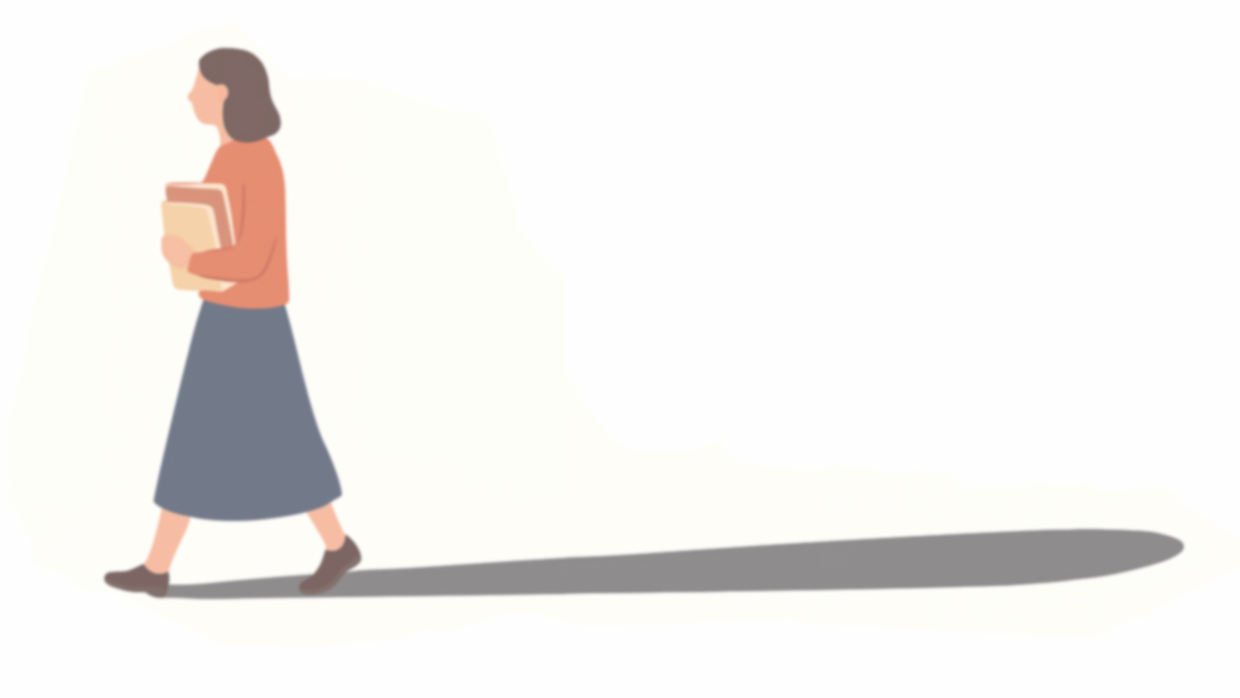
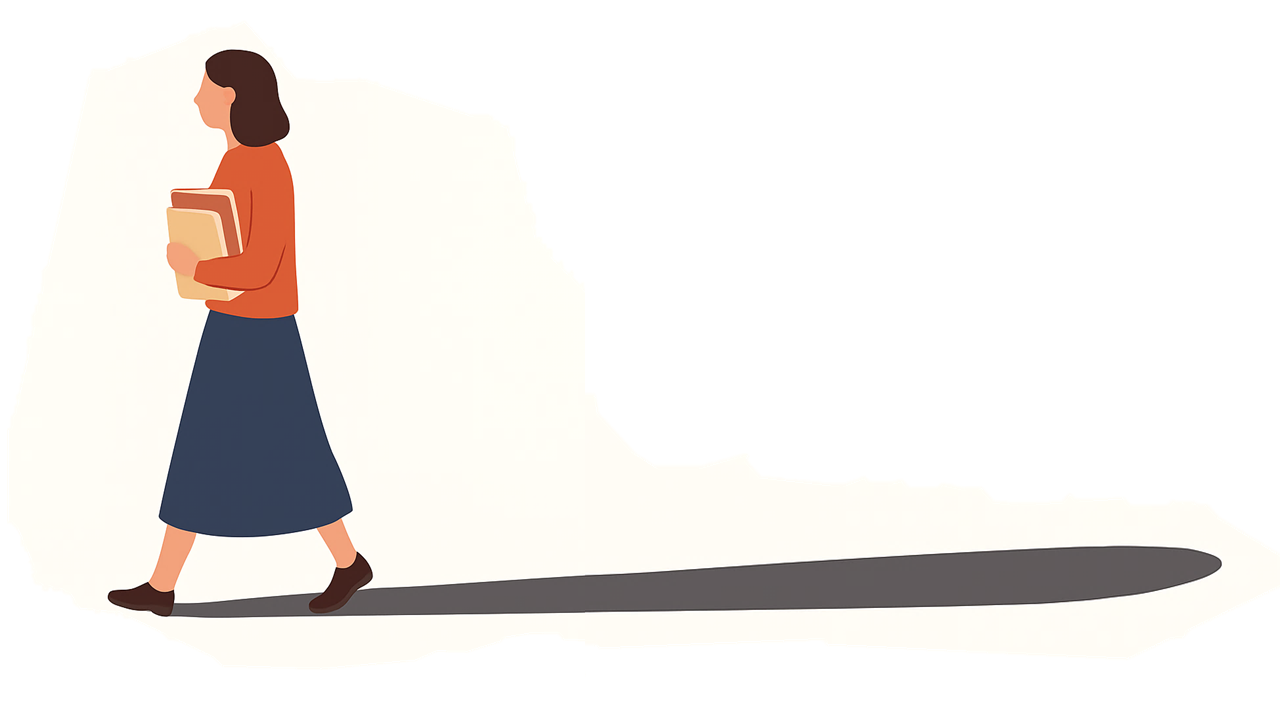
minor changes to blog1

Changed region(s): [[0.0613, 0.0602, 0.95, 0.8725]]

diff --git a/blogs/Feminist_Epi.html b/blogs/Feminist_Epi.html
@@ -50,7 +50,8 @@ The <b>Female Epistemology in STEM</b> project explores the ways in which women 
 <summary><b>Story: "Title of Story 1"</b></summary>
 
 <p>
-A brief description of the story written by my partner.  
+Written by: <b>Oviya G</b><br>
+<!-- This narrative delves into the personal -->
 This narrative explores the intersections between identity, curiosity, 
 and the pursuit of scientific understanding.
 </p>
@@ -62,15 +63,15 @@ and the pursuit of scientific understanding.
 <!-- <img src="./img/story1_image.jpg" width="50%"> -->
 
 </details>
-
 <br>
 
 <!-- STORY 2 -->
 
 <details>
-<summary><b>Story: "Title of Story 2"</b></summary>
+<summary><b>Story: "Title of Story 2" </b></summary>
 
 <p>
+Written by: <b>Oviya G</b><br>
 A second narrative that reflects on lived experiences within STEM spaces,
 capturing moments of discovery, frustration, and resilience.
 </p>
@@ -82,27 +83,26 @@ capturing moments of discovery, frustration, and resilience.
 <!-- <img src="./img/story2_image.jpg" width="50%"> -->
 
 </details>
+<br>
 
 <!-- POEM -->
 
 <details>
-<summary><b>Poem: "Title of Your Poem"</b></summary>
+<summary><b>Poem: "The Path She Knows"</b></summary>
 
 <p>
+written by: <b>Akshank Tyagi</b><br>
 A short description of the poem can go here.  
-For example: This poem reflects on the experience of navigating scientific spaces, 
-the quiet persistence required to pursue knowledge, and the layered identity 
-of being both observer and participant in the process of discovery.
+
 </p>
 
-<!-- <a href="poem.html">Read the full poem →</a> -->
+<a href="https://indianinstituteofscience-my.sharepoint.com/:b:/g/personal/akshanktyagi_iisc_ac_in/IQB4FtsnNkbnRaus7-Pxh_-HAarPKe_id2XI52ViHSUqyxo?e=hoMmZ4">Read the full poem →</a>
 
 <br><br>
 
 <!-- <img src="./img/poem_image.jpg" width="50%"> -->
 
 </details>
-
 <br>
 
 </section>
